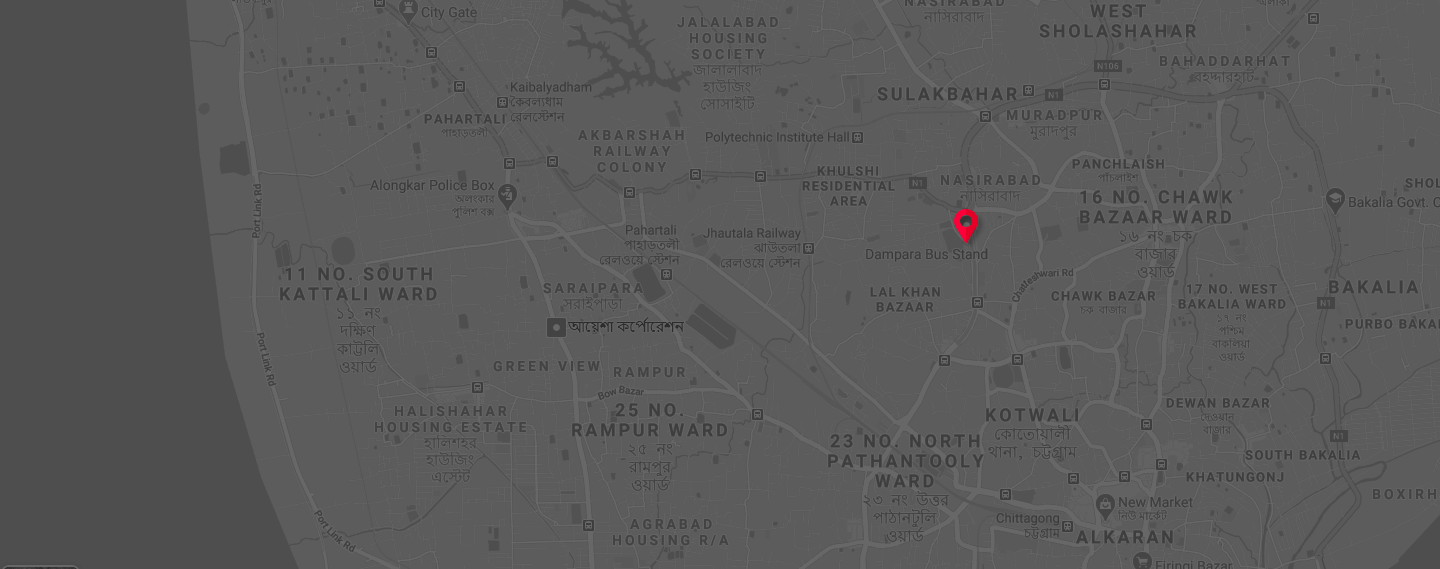
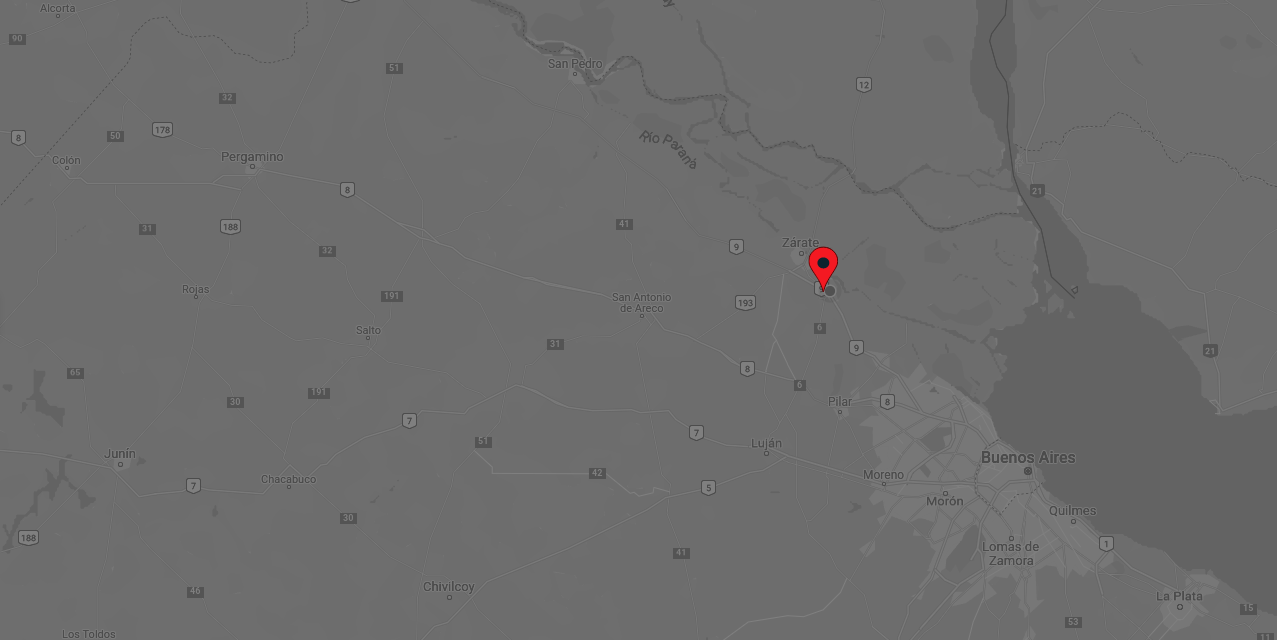
Contact Page

diff --git a/src/components/ContactForm.js b/src/components/ContactForm.js
@@ -1,0 +1,92 @@
+import React, { useState } from 'react';
+import styled from 'styled-components';
+
+const FormStyles = styled.form`
+  width: 100%;
+  .form-group {
+    width: 100%;
+    margin-bottom: 2rem;
+  }
+  label {
+    font-size: 1.8rem;
+  }
+  input,
+  textarea {
+    width: 100%;
+    font-size: 2rem;
+    padding: 1.2rem;
+    color: var(--gray-1);
+    background-color: var(--deep-dark);
+    outline: none;
+    border: none;
+    border-radius: 8px;
+    margin-top: 1rem;
+  }
+  textarea {
+    min-height: 250px;
+    resize: vertical;
+  }
+  button[type='submit'] {
+    background-color: var(--gray-1);
+    color: var(--black);
+    font-size: 2rem;
+    display: inline-block;
+    outline: none;
+    border: none;
+    padding: 1rem 4rem;
+    border-radius: 8px;
+    cursor: pointer;
+  }
+`;
+
+const ContactForm = () => {
+  const [name, setName] = useState('');
+  const [email, setEmail] = useState('');
+  const [message, setMessage] = useState('');
+
+  return (
+    <>
+      <FormStyles>
+        <div className="form-group">
+          <label htmlFor="name">
+            Your name
+            <input
+              type="text"
+              id="name"
+              name="name"
+              value={name}
+              onChange={(e) => setName(e.target.value)}
+            />
+          </label>
+        </div>
+        <div className="form-group">
+          <label htmlFor="email">
+            Your email
+            <input
+              type="text"
+              id="email"
+              email="email"
+              value={email}
+              onChange={(e) => setEmail(e.target.value)}
+            />
+          </label>
+        </div>
+        <div className="form-group">
+          <label htmlFor="message">
+            Your message
+            <textarea
+              type="text"
+              id="message"
+              message="message"
+              value={message}
+              onChange={(e) => setMessage(e.target.value)}
+            />
+          </label>
+        </div>
+        <button type="submit">Send</button>
+      </FormStyles>
+    </>
+  );
+};
+
+export default ContactForm;

diff --git a/src/components/ContactSection.js b/src/components/ContactSection.js
@@ -1,10 +1,52 @@
 import React from 'react';
 import styled from 'styled-components';
+import { MdLocalPhone, MdEmail } from 'react-icons/md';
 import ContactInfoItem from './ContactInfoItem';
 import SectionTitle from './SectionTitle';
+import ContactForm from './ContactForm';
 
 const ContactSectionStyle = styled.div`
   padding: 10rem 0;
+  .contactSection__wrapper {
+    display: flex;
+    gap: 5rem;
+    margin-top: 7rem;
+    justify-content: space-between;
+    position: relative;
+  }
+  .contactSection__wrapper::after {
+    position: absolute;
+    content: '';
+    width: 2px;
+    height: 50%;
+    background-color: var(--gray-1);
+    left: 50%;
+    top: 30%;
+    transform: translate(-50%, -50%);
+  }
+  .left {
+    width: 100%;
+    max-width: 500px;
+  }
+  .right {
+    max-width: 500px;
+    width: 100%;
+  }
+  @media only screen and (max-width: 768px) {
+    .contactSection__wrapper {
+      flex-direction: column;
+    }
+    .contactSection__wrapper::after {
+      display: none;
+    }
+    .left,
+    .right {
+      max-width: 100%;
+    }
+    .right {
+      padding: 4rem 2rem 2rem 2rem;
+    }
+  }
 `;
 
 const ContactSection = () => (
@@ -13,9 +55,13 @@ const ContactSection = () => (
       <SectionTitle heading="Contact" subheading="Get in touch" />
       <div className="contactSection__wrapper">
         <div className="left">
-          <ContactInfoItem />
+          <ContactInfoItem icon={<MdLocalPhone />} text="+54 11 2747-9201" />
+          <ContactInfoItem icon={<MdEmail />} text="enuel.monzon@gmail.com" />
+          <ContactInfoItem text="Campana, Buenos Aires, Argentina" />
         </div>
-        <div className="right">contact form</div>
+        <div className="right">
+          <ContactForm />
+        </div>
       </div>
     </div>
   </ContactSectionStyle>

diff --git a/src/components/Map.js b/src/components/Map.js
@@ -1,0 +1,63 @@
+import React from 'react';
+import styled from 'styled-components';
+import PText from './PText';
+import MapImg from '../assets/images/map.png';
+
+const MapStyles = styled.div`
+  background: url(${MapImg}) no-repeat center / cover;
+  min-height: 400px;
+  .container {
+    position: relative;
+    min-height: 400px;
+  }
+  .map__card {
+    position: absolute;
+    right: 10%;
+    bottom: 10%;
+    padding: 2rem;
+    background: var(--deep-dark);
+    width: 100%;
+    max-width: 300px;
+    border-radius: 12px;
+  }
+  .map__card__heading {
+    font-size: 3rem;
+    margin-bottom: 1rem;
+  }
+  .map__card__link {
+    display: inline-block;
+    font-size: 1.6rem;
+    margin-top: 3rem;
+    text-decoration: underline;
+  }
+  @media only screen and (max-width: 768px) {
+    background-position: 80% center;
+  }
+  @media only screen and (max-width: 400px) {
+    .map__card {
+      max-width: none;
+      right: auto;
+    }
+  }
+`;
+
+const Map = () => (
+  <MapStyles>
+    <div className="container">
+      <div className="map__card">
+        <h3 className="map__card__heading">Here is me</h3>
+        <PText>Campana, Provincia de Buenos Aires, Argentina</PText>
+        <a
+          href="https://goo.gl/maps/AM6T2WAi9RrMZNAUA"
+          target="_blank"
+          rel="noreferrer"
+          className="map__card__link"
+        >
+          Open in Google Map
+        </a>
+      </div>
+    </div>
+  </MapStyles>
+);
+
+export default Map;

diff --git a/src/components/ContactInfoItem.js b/src/components/ContactInfoItem.js
@@ -1,9 +1,36 @@
 import React from 'react';
+import { MdPlace } from 'react-icons/md';
+import styled from 'styled-components';
+import PText from './PText';
 
-const ContactInfoItem = () => (
-  <div>
-    <h1>contact info</h1>
-  </div>
+const ItemStyles = styled.div`
+  padding: 2rem;
+  background-color: var(--deep-dark);
+  display: flex;
+  align-items: center;
+  gap: 2rem;
+  border-radius: 8px;
+  margin-bottom: 2rem;
+  .icon {
+    color: var(--white);
+    background-color: var(--gray-2);
+    padding: 1.3rem;
+    align-items: center;
+    justify-content: center;
+    border-radius: 50%;
+  }
+  svg {
+    width: 3.5rem;
+  }
+`;
+
+const ContactInfoItem = ({ icon = <MdPlace />, text = 'this is an info' }) => (
+  <ItemStyles>
+    <div className="icon">{icon}</div>
+    <div className="info">
+      <PText>{text}</PText>
+    </div>
+  </ItemStyles>
 );
 
 export default ContactInfoItem;

diff --git a/src/pages/Contact.js b/src/pages/Contact.js
@@ -1,9 +1,11 @@
 import React from 'react';
 import ContactSection from '../components/ContactSection';
+import Map from '../components/Map';
 
 const Contact = () => (
   <div>
     <ContactSection />
+    <Map />
   </div>
 );
 
